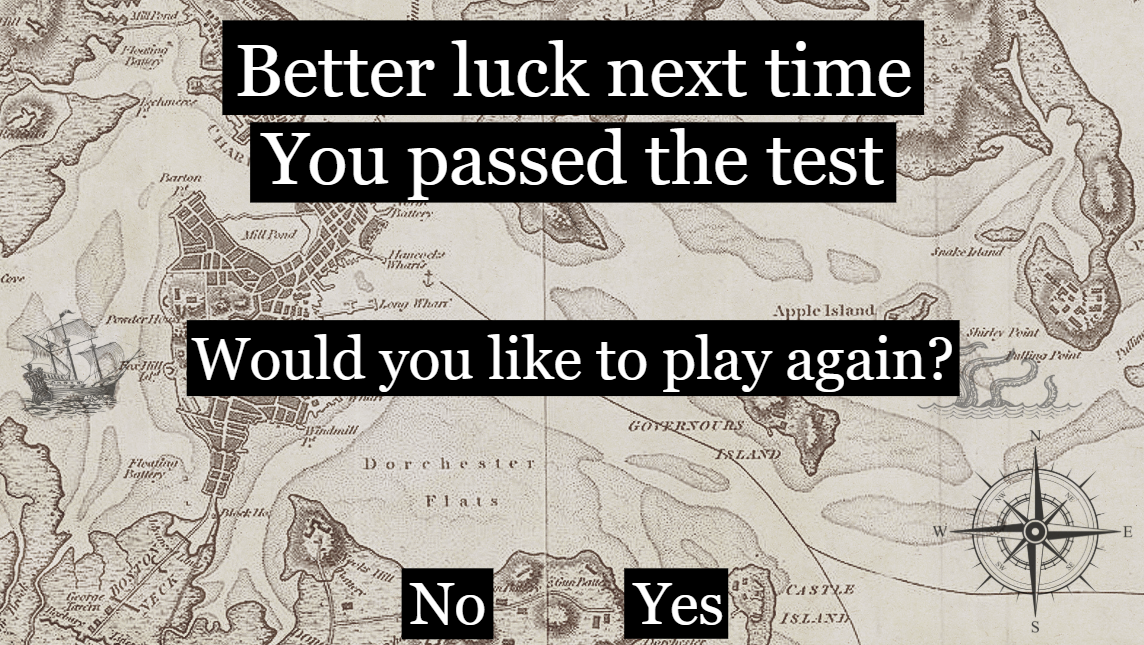
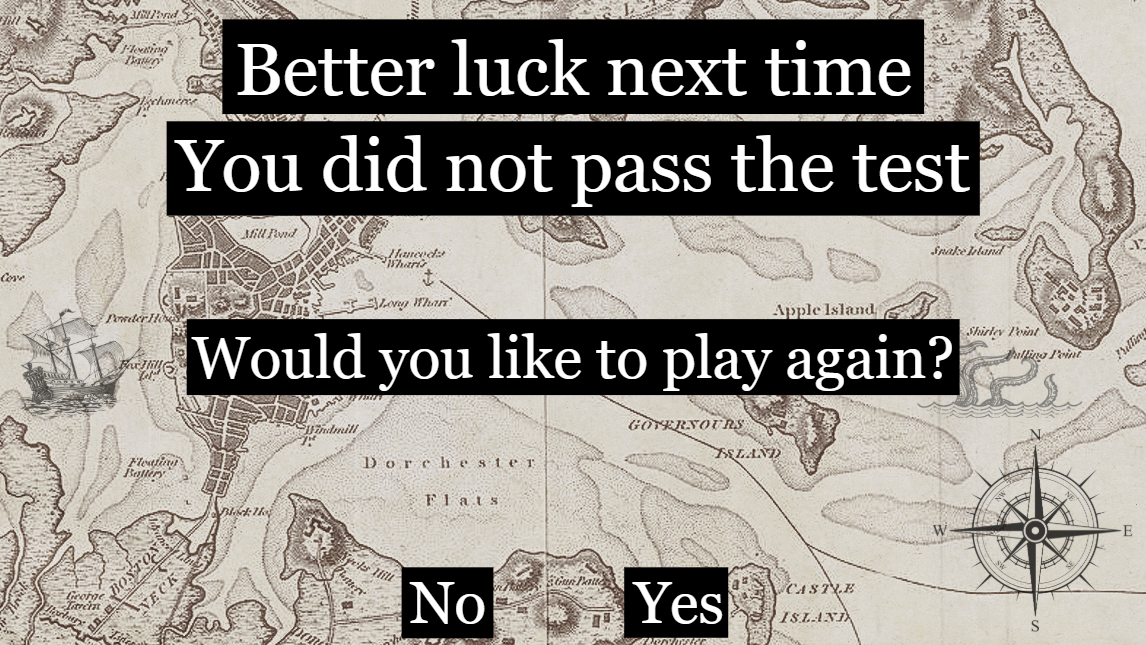
Adding play again buttons

Changed region(s): [[0.0, 0.0, 1.0, 1.0], [0.6731, 0.4341, 0.826, 0.4961]]

diff --git a/main.py b/main.py
@@ -73,6 +73,7 @@ Questions_answers = [ #Questions and answers for my quiz
 
 question_index = 0
 def open_questions_page(): #Creates a def function for the questions page
+    root.withdraw()
     global new_window
     new_window = tk.Toplevel(root) #Creates a secondary window
     new_window.title("Questions page") #Creates the title of the second window
@@ -107,6 +108,15 @@ def open_questions_page(): #Creates a def function for the questions page
         check_answer(selected_answer)
         question_index +=1 #Adds 1 to the question_index so that it corresponds to the next question
 
+        if question_index >= len(Questions_answers):
+            new_window.destroy()
+            if score >= 7:
+                pass_window()
+                return
+            elif score <7:
+                fail_window()
+                return
+
         question_number()
 
         current_question = Questions_answers[question_index] #Current_question is updated as the question_index increased by 1
@@ -130,12 +140,6 @@ def open_questions_page(): #Creates a def function for the questions page
             btn2.config(bg="white")
             btn3.config(bg="white")
             btn4.config(bg="white")
-
-        if question_index > len(Questions_answers):
-            if score >= 7:
-                pass_window()
-            elif score <7:
-                fail_window()
 
     def check_answer(selected_answer): #Creates a def function for the answer that the user selects to be checked whether it is right or wrong the selected_answer variable is created and holds the choice the user made
         current_question = Questions_answers[question_index]
@@ -260,7 +264,8 @@ def pass_window():
     label.image = pass_photo  # Attaches the label to the image so that is not deleted by pythons memory cleanup
     label.pack()  # Makes the image for the homepage appear
 
-    tk.Label(pass_window, text=f"Your score is {score}/10", font = ("Arial",18))
+    pass_message = tk.Label(pass_window, text=f"Your score is {score}/10", font = ("Arial",40), fg="green", bg="black")
+    pass_message.place(relx=0.5, rely=0.4, anchor="center")
 
 def fail_window():
     fail_window = tk.Toplevel(root)  # Creates a secondary window
@@ -271,7 +276,8 @@ def fail_window():
     label.image = fail_photo  # Attaches the label to the image so that is not deleted by pythons memory cleanup
     label.pack()  # Makes the image for the homepage appear
 
-    tk.Label(fail_window, text=f"Your score is {score}/10", font=("Arial", 18))
+    fail_message = tk.Label(fail_window, text=f"Your score is {score}/10", font=("Arial", 40), fg="red", bg="black")
+    fail_message.place(relx=0.5, rely=0.4, anchor="center")
 
     root.withdraw()
 
